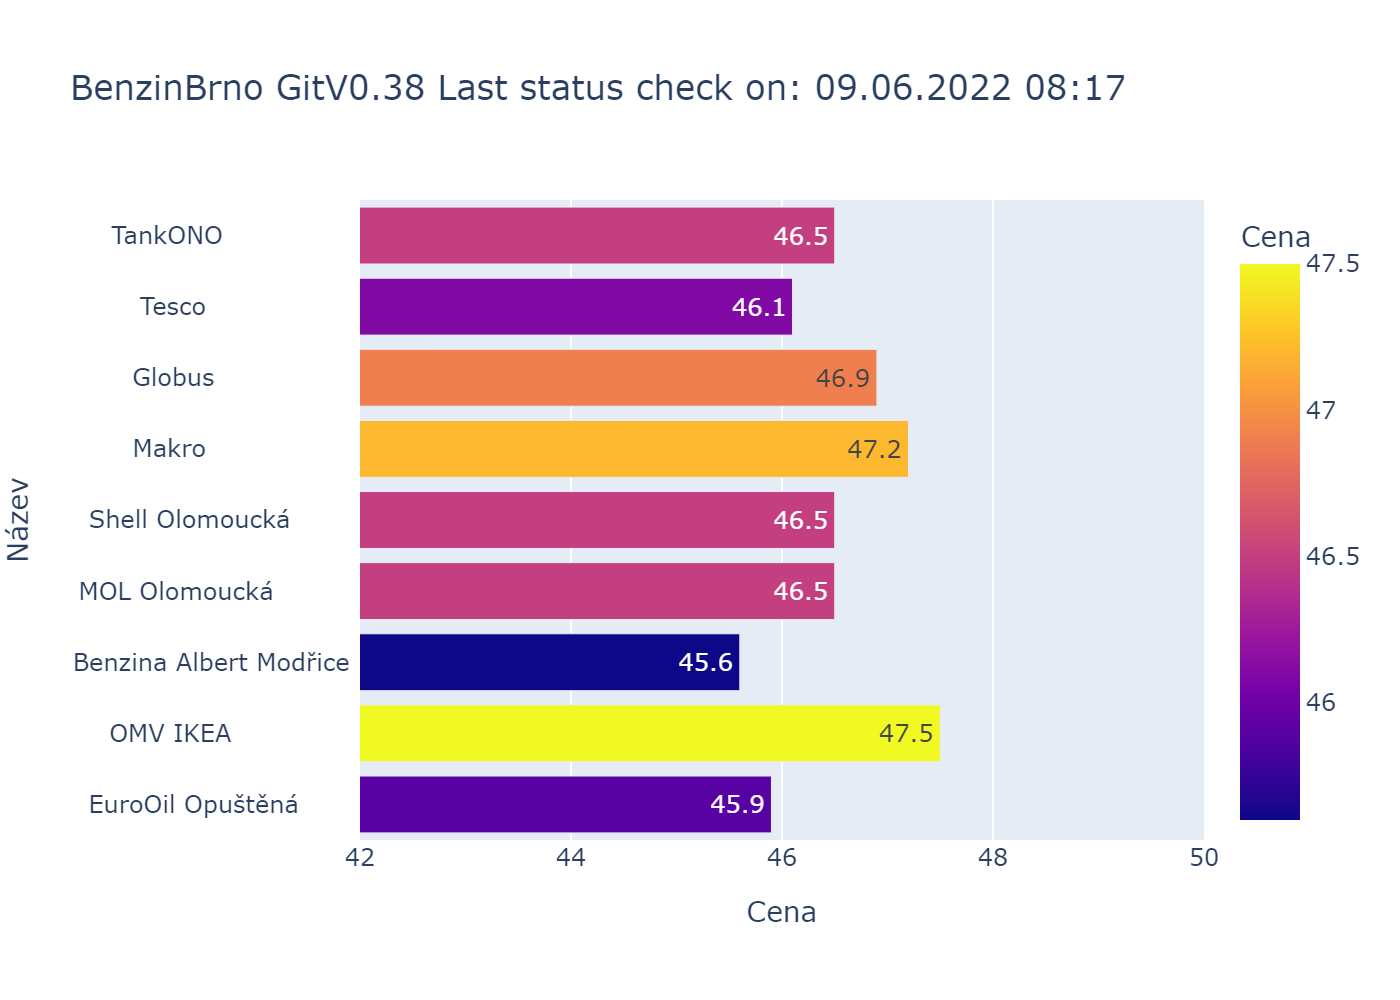
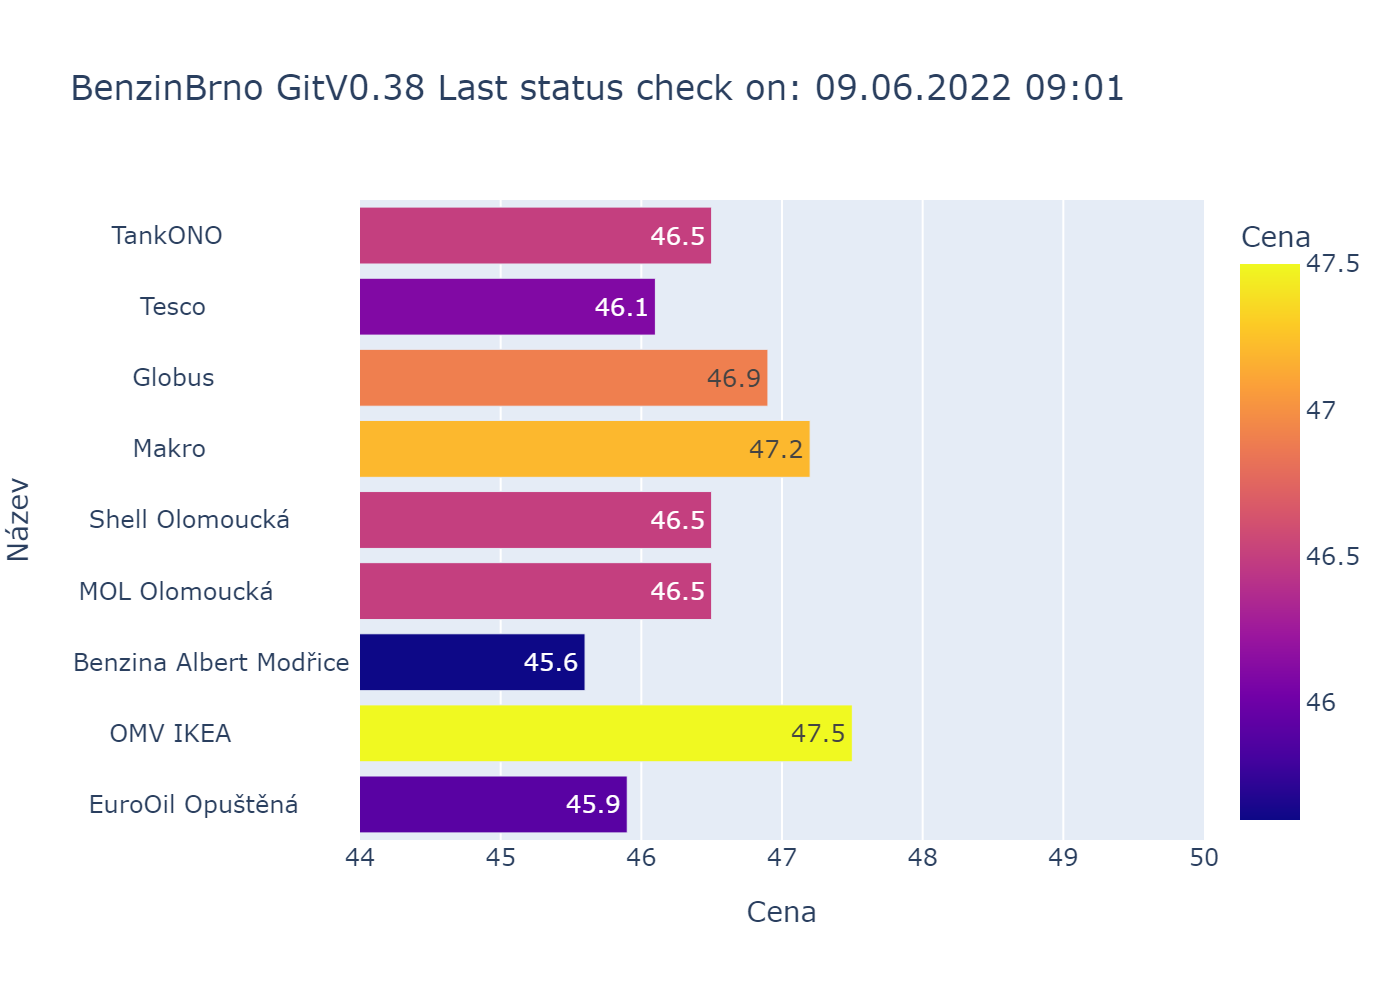
Win cmd line

diff --git a/bbCFG.py b/bbCFG.py
@@ -31,7 +31,7 @@ bbDateLog = "%d.%m.%Y--%H:%M"  # format casu
 # Formatovani Ceny (float) - Cena = '{:.2f}'.format(item)
 bbCenaMsk = '{:.2f}'  # format na 2 desetinna mista
 # Graf
-bbCenaMin = 42  # mdolni mez ceny na ose X v grafu
+bbCenaMin = 44  # mdolni mez ceny na ose X v grafu
 
 # brint - my print, pomoci *ssAll
 def brint(*ssAll):
